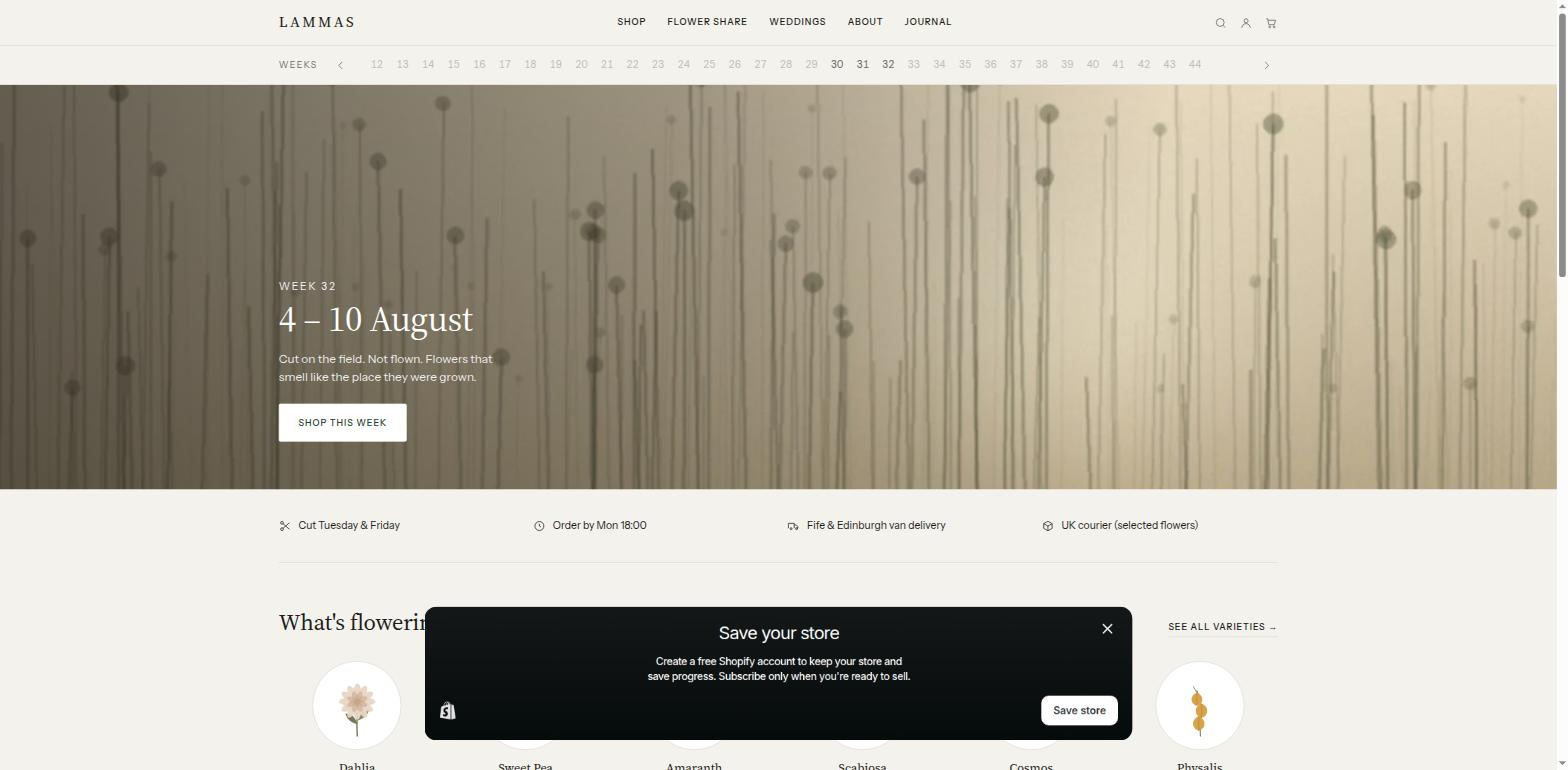
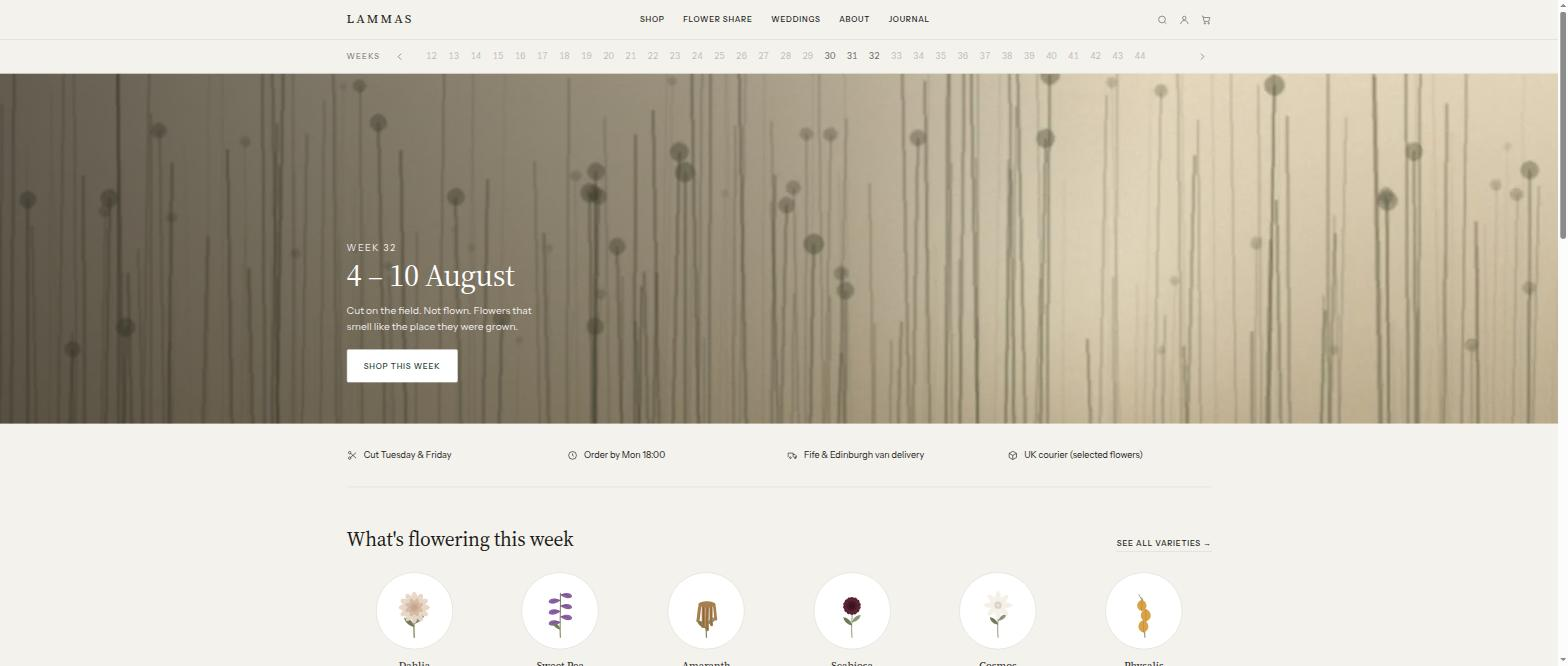
Clean screenshots and a live demo link
The preview bar covered the earlier shots. Adds the demo store URL and its
storefront password to the README.

diff --git a/README.md b/README.md
@@ -10,6 +10,12 @@ that week, and whether those particular flowers survive a courier.
 
 ![Home](docs/screenshots/01-home.jpg)
 
+**Live demo:** https://iiiqq6-w2.myshopify.com — storefront password `shopify`
+
+It runs on a Shopify preview store, so it sits behind the password page and will
+not outlive the trial. The theme and the script that fills the store are here.
+
+
 ## What is interesting in here
 
 **A vocabulary Shopify does not have.** A variety is a thing, a week is a thing,
